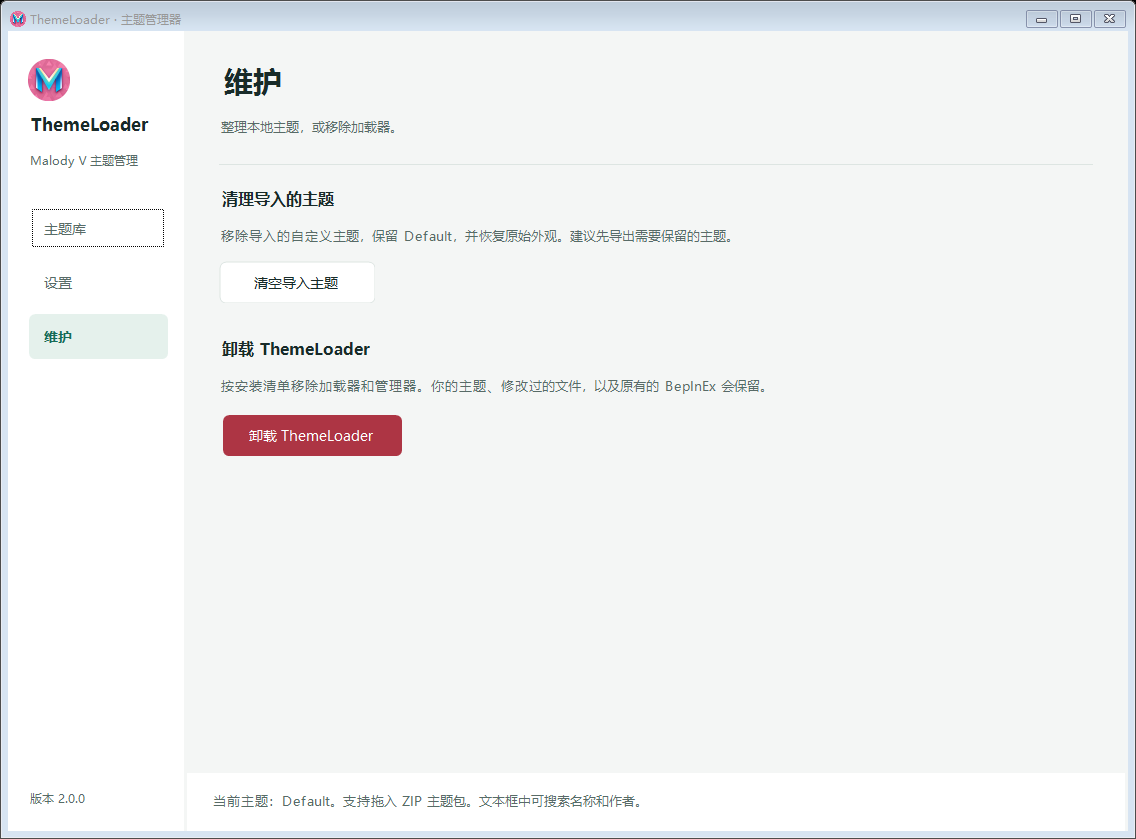
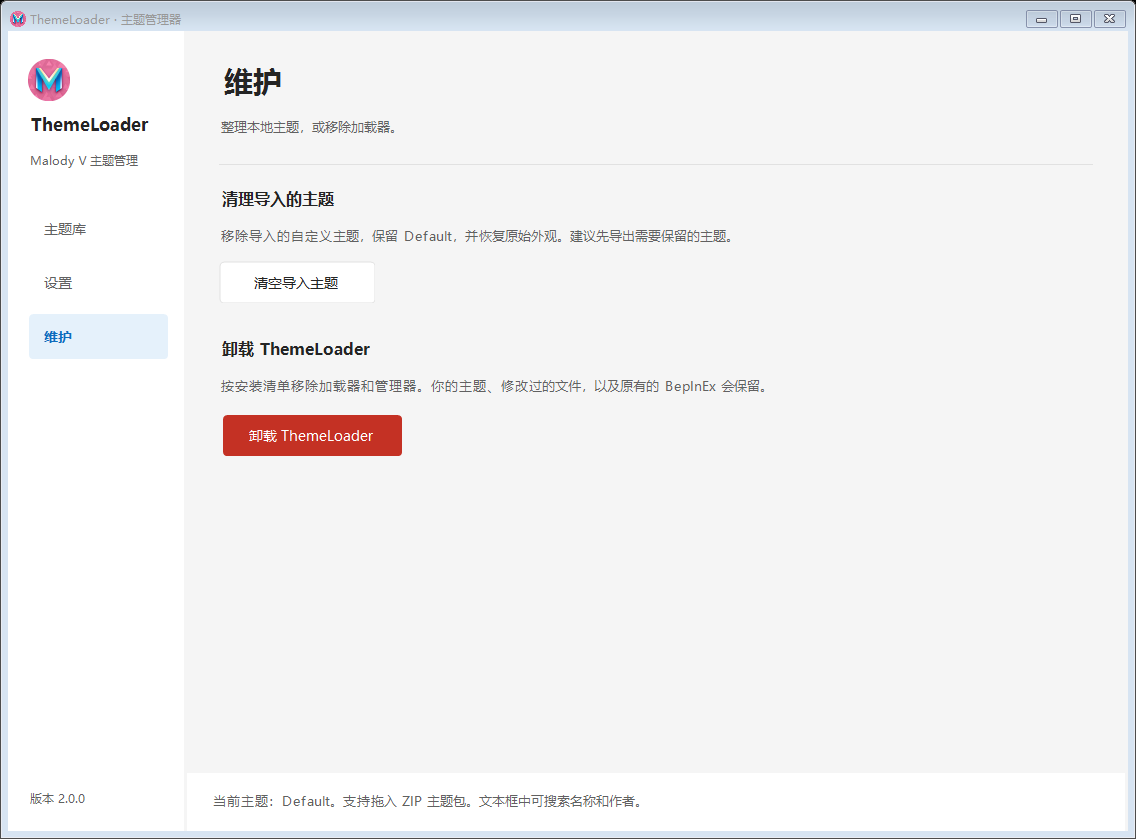
Adopt Fluent 2 visual system for desktop tools

Changed region(s): [[0.1849, 0.4958, 0.3697, 0.5578], [0.0308, 0.3719, 0.0616, 0.4029]]

diff --git a/src/MalodyVThemeLoader.Windows/AppVisuals.cs b/src/MalodyVThemeLoader.Windows/AppVisuals.cs
@@ -18,20 +18,26 @@ public static class AppVisuals
     private static readonly Lazy<string> MonoFontFamily = new(() =>
         ResolveFontFamily("Cascadia Mono", "Consolas", "Courier New"));
 
-    public static readonly Color Ink = Color.FromArgb(24, 43, 41);
-    public static readonly Color MutedInk = Color.FromArgb(88, 107, 103);
-    public static readonly Color Canvas = Color.FromArgb(244, 246, 245);
-    public static readonly Color Surface = Color.White;
-    public static readonly Color SurfaceAlt = Color.FromArgb(237, 242, 240);
-    public static readonly Color Line = Color.FromArgb(221, 229, 226);
-    public static readonly Color Accent = Color.FromArgb(23, 107, 88);
-    public static readonly Color AccentHover = Color.FromArgb(17, 84, 68);
-    public static readonly Color AccentSoft = Color.FromArgb(229, 241, 236);
-    public static readonly Color Danger = Color.FromArgb(173, 53, 68);
-    public static readonly Color Sidebar = Color.FromArgb(27, 32, 39);
-    public static readonly Color SidebarMuted = Color.FromArgb(183, 191, 201);
-    public static readonly Color SidebarSoft = Color.FromArgb(42, 49, 59);
-    public static readonly Color Success = Accent;
+    // Fluent 2 light theme roles. These are deliberately neutral and blue;
+    // green/teal is reserved for theme artwork and never acts as product chrome.
+    public static readonly Color Ink = Color.FromArgb(36, 36, 36);
+    public static readonly Color MutedInk = Color.FromArgb(97, 97, 97);
+    public static readonly Color Canvas = Color.FromArgb(245, 245, 245);
+    public static readonly Color Surface = Color.FromArgb(255, 255, 255);
+    public static readonly Color SurfaceAlt = Color.FromArgb(250, 250, 250);
+    public static readonly Color SurfaceRaised = Color.FromArgb(255, 255, 255);
+    public static readonly Color Line = Color.FromArgb(225, 225, 225);
+    public static readonly Color Accent = Color.FromArgb(15, 108, 189);
+    public static readonly Color AccentHover = Color.FromArgb(17, 94, 163);
+    public static readonly Color AccentPressed = Color.FromArgb(0, 84, 147);
+    public static readonly Color AccentSoft = Color.FromArgb(229, 241, 251);
+    public static readonly Color Danger = Color.FromArgb(196, 49, 36);
+    public static readonly Color DangerHover = Color.FromArgb(164, 38, 28);
+    public static readonly Color DangerPressed = Color.FromArgb(139, 31, 23);
+    public static readonly Color Sidebar = Color.FromArgb(248, 248, 248);
+    public static readonly Color SidebarMuted = Color.FromArgb(97, 97, 97);
+    public static readonly Color SidebarSoft = Color.FromArgb(243, 243, 243);
+    public static readonly Color Success = Color.FromArgb(16, 124, 16);
 
     public static Font UiFont(float size = 10F, FontStyle style = FontStyle.Regular)
     {
@@ -96,7 +102,7 @@ public static class AppVisuals
             Primary = primary,
             Danger = danger,
             AutoSize = false,
-            Height = 42,
+            Height = 36,
             Text = text,
             Font = UiFont(10F),
             FlatStyle = FlatStyle.Flat,
@@ -116,13 +122,13 @@ public static class AppVisuals
         button.FlatAppearance.MouseOverBackColor = primary
             ? AccentHover
             : danger
-                ? Color.FromArgb(148, 41, 48)
+                ? DangerHover
                 : SurfaceAlt;
         button.FlatAppearance.MouseDownBackColor = primary
-            ? Color.FromArgb(13, 72, 87)
+            ? AccentPressed
             : danger
-                ? Color.FromArgb(132, 36, 43)
-                : Color.FromArgb(232, 237, 242);
+                ? DangerPressed
+                : Color.FromArgb(237, 237, 237);
         return button;
     }
 

diff --git a/src/MalodyVThemeLoader.Windows/WindowsBackdrop.cs b/src/MalodyVThemeLoader.Windows/WindowsBackdrop.cs
@@ -1,0 +1,42 @@
+using System.Runtime.InteropServices;
+
+namespace MalodyVThemeLoader.Windows;
+
+/// <summary>
+/// Uses the Windows 11 Mica system backdrop when available. Older Windows
+/// versions keep the same Fluent neutral surface through the normal fallback.
+/// This avoids simulating glass with gradients or blur inside the application.
+/// </summary>
+public static class WindowsBackdrop
+{
+    private const int DwmwaUseImmersiveDarkMode = 20;
+    private const int DwmwaSystemBackdropType = 38;
+    private const int DwmsbtMica = 2;
+
+    public static bool TryApplyMica(Form form)
+    {
+        if (!OperatingSystem.IsWindowsVersionAtLeast(10, 0, 22000))
+            return false;
+
+        try
+        {
+            form.BackColor = AppVisuals.Canvas;
+            var dark = 0;
+            var backdrop = DwmsbtMica;
+            _ = DwmSetWindowAttribute(form.Handle, DwmwaUseImmersiveDarkMode,
+                ref dark, sizeof(int));
+            return DwmSetWindowAttribute(form.Handle, DwmwaSystemBackdropType,
+                ref backdrop, sizeof(int)) == 0;
+        }
+        catch (DllNotFoundException) { return false; }
+        catch (EntryPointNotFoundException) { return false; }
+        catch (InvalidOperationException) { return false; }
+    }
+
+    [DllImport("dwmapi.dll")]
+    private static extern int DwmSetWindowAttribute(
+        IntPtr hwnd,
+        int attribute,
+        ref int value,
+        int valueSize);
+}

diff --git a/src/MalodyVThemeLoader.Windows/ActionButton.cs b/src/MalodyVThemeLoader.Windows/ActionButton.cs
@@ -26,10 +26,21 @@ internal sealed class ActionButton : Button
         e.Graphics.SmoothingMode = SmoothingMode.AntiAlias;
         var scale = DeviceDpi / 96f;
         var rect = new RectangleF(0.5f, 0.5f, Width-1, Height-1);
-        using var path = Rounded(rect, 6*scale);
-        var fill = !Enabled ? AppVisuals.SurfaceAlt : pressed ? AppVisuals.AccentSoft
-            : hovered ? (Primary ? AppVisuals.AccentHover : Danger ? Color.FromArgb(143,38,51) : AppVisuals.SurfaceAlt) : BackColor;
-        var ink = !Enabled ? AppVisuals.MutedInk : pressed ? AppVisuals.Ink : ForeColor;
+        using var path = Rounded(rect, 4*scale);
+        var fill = !Enabled
+            ? AppVisuals.SurfaceAlt
+            : pressed
+                ? (Primary ? AppVisuals.AccentPressed
+                    : Danger ? AppVisuals.DangerPressed
+                    : Color.FromArgb(237, 237, 237))
+                : hovered
+                    ? (Primary ? AppVisuals.AccentHover
+                        : Danger ? AppVisuals.DangerHover
+                        : AppVisuals.SurfaceAlt)
+                    : BackColor;
+        var ink = !Enabled
+            ? AppVisuals.MutedInk
+            : Primary || Danger ? Color.White : ForeColor;
         using var brush = new SolidBrush(fill);
         e.Graphics.FillPath(brush,path);
         if (!Primary && !Danger && FlatAppearance.BorderSize != 0)

diff --git a/src/MalodyVBepInExInstaller/InstallerForm.cs b/src/MalodyVBepInExInstaller/InstallerForm.cs
@@ -25,6 +25,7 @@ internal sealed class InstallerForm : Form
         BackColor = AppVisuals.Canvas;
         Font = AppVisuals.UiFont();
         Icon = AppVisuals.CreateAppIcon();
+        Shown += (_, _) => WindowsBackdrop.TryApplyMica(this);
         var shell = new TableLayoutPanel { Dock = DockStyle.Fill, ColumnCount = 1, RowCount = 2, Padding = new Padding(32) };
         shell.ColumnStyles.Add(new ColumnStyle(SizeType.Percent,100));
         shell.RowStyles.Add(new RowStyle(SizeType.Percent,100));
@@ -97,7 +98,7 @@ internal sealed class InstallerForm : Form
     {
         var valid = GameLocator.IsGameDirectory(pathBox.Text, out var error);
         pathState.Text = valid ? "已找到有效的 Malody V IL2CPP 目录。" : error;
-        pathState.ForeColor = valid ? Color.DarkGreen : Color.DarkRed;
+        pathState.ForeColor = valid ? AppVisuals.Success : AppVisuals.Danger;
         installButton.Enabled = valid && !busy;
         uninstallButton.Enabled = !busy && File.Exists(Path.Combine(pathBox.Text, ProductInfo.ManifestRelativePath));
     }

diff --git a/src/MalodyVThemeLoader.Installer/InstallerForm.cs b/src/MalodyVThemeLoader.Installer/InstallerForm.cs
@@ -29,6 +29,7 @@ internal sealed class InstallerForm : Form
         BackColor = AppVisuals.Canvas;
         Font = AppVisuals.UiFont();
         Icon = AppVisuals.CreateAppIcon();
+        Shown += (_, _) => WindowsBackdrop.TryApplyMica(this);
         var layout = new TableLayoutPanel
         {
             Dock = DockStyle.Fill, ColumnCount = 1, RowCount = 3,

diff --git a/src/MalodyVThemeLoader.ThemeManager/ThemeManagerLayout.cs b/src/MalodyVThemeLoader.ThemeManager/ThemeManagerLayout.cs
@@ -27,6 +27,7 @@ internal sealed partial class ThemeManagerForm
         BackColor = AppVisuals.Canvas;
         Font = AppVisuals.UiFont();
         Icon = AppVisuals.CreateAppIcon();
+        Shown += (_, _) => WindowsBackdrop.TryApplyMica(this);
         AllowDrop = true;
 
         exportButton = AppVisuals.CreateButton("导出 ZIP");

diff --git a/DESIGN.md b/DESIGN.md
@@ -1,18 +1,21 @@
 ---
 name: Malody V ThemeLoader
-description: A quiet native Windows workspace for installing and managing Malody V themes.
+description: A focused Fluent 2 native Windows workspace for installing and managing Malody V themes.
 colors:
-  accent: "#176B58"
-  accent-hover: "#115444"
-  accent-soft: "#E5F1EC"
-  danger: "#AD3544"
-  danger-hover: "#8F2633"
-  canvas: "#F4F6F5"
+  accent: "#0F6CBD"
+  accent-hover: "#115EA3"
+  accent-pressed: "#005493"
+  accent-soft: "#E5F1FB"
+  danger: "#C43124"
+  danger-hover: "#A4261C"
+  danger-pressed: "#8B1F17"
+  success: "#107C10"
+  canvas: "#F5F5F5"
   surface: "#FFFFFF"
-  surface-alt: "#EDF2F0"
-  ink: "#182B29"
-  muted-ink: "#586B67"
-  line: "#DDE5E2"
+  surface-alt: "#FAFAFA"
+  ink: "#242424"
+  muted-ink: "#616161"
+  line: "#E1E1E1"
 typography:
   page-title:
     fontFamily: "Microsoft YaHei UI, Segoe UI Variable Text, Segoe UI, sans-serif"
@@ -39,7 +42,7 @@ typography:
     fontSize: "9pt"
     fontWeight: 400
 rounded:
-  action: "6px"
+  action: "4px"
 spacing:
   compact: "8px"
   control: "12px"
@@ -54,7 +57,7 @@ components:
     textColor: "{colors.surface}"
     typography: "{typography.body}"
     rounded: "{rounded.action}"
-    height: "42px"
+    height: "36px"
   button-primary-hover:
     backgroundColor: "{colors.accent-hover}"
   button-secondary:
@@ -62,7 +65,7 @@ components:
     textColor: "{colors.ink}"
     typography: "{typography.body}"
     rounded: "{rounded.action}"
-    height: "42px"
+    height: "36px"
   button-secondary-hover:
     backgroundColor: "{colors.surface-alt}"
   button-danger:
@@ -70,7 +73,7 @@ components:
     textColor: "{colors.surface}"
     typography: "{typography.body}"
     rounded: "{rounded.action}"
-    height: "42px"
+    height: "36px"
   button-danger-hover:
     backgroundColor: "{colors.danger-hover}"
   button-pressed:
@@ -107,28 +110,28 @@ components:
 
 ## Overview
 
-**Creative North Star: "Quiet Windows utility"**
+**Creative North Star: "Fluent 2 Windows utility"**
 
-The interface is a clear, concise working environment for Chinese-speaking Malody V players and theme authors. Neutral surfaces, restrained green actions and familiar Windows controls keep attention on the next task. Brand appears through the existing logo and real theme artwork.
+The interface is a clear, concise working environment for Chinese-speaking Malody V players and theme authors. Neutral surfaces, restrained brand blue actions and familiar Windows controls keep attention on the next task. Brand appears through the existing logo and real theme artwork.
 
 The native Windows typography, frame, dialogs, scrollbars and focus cues are intentional. This system records the implemented WinForms application; the surface brief owns its workflow composition and the disclosed concept-workflow deviation.
 
 **Key Characteristics:**
 
-- Quiet light surfaces with a restrained green accent.
+- Quiet light surfaces with a restrained brand blue accent.
 - Native Chinese typography and keyboard affordances.
 - Persistent task labels and truthful operation states.
 - Real source artwork with proportion-preserving previews.
 
 ## Colors
 
-Deep green provides action and selection within a pale neutral workspace. The frontmatter is the token record extracted from `AppVisuals` and `ActionButton`.
+Fluent brand blue provides action and selection within a pale neutral workspace. The frontmatter is the token record extracted from `AppVisuals` and `ActionButton`.
 
 ### Primary
 
-- **Action Green** (`accent`): primary actions, active-theme text and successful ThemeLoader operations.
-- **Deep Action Green** (`accent-hover`): primary-button hover.
-- **Soft Green** (`accent-soft`): selected navigation and list rows; pressed buttons.
+- **Brand Blue** (`accent`): primary actions, active-theme text and successful ThemeLoader operations.
+- **Deep Brand Blue** (`accent-hover`): primary-button hover.
+- **Soft Brand Blue** (`accent-soft`): selected navigation and list rows; pressed buttons.
 - **Removal Red** (`danger`): destructive ThemeLoader removal and invalid-theme feedback.
 - **Deep Removal Red** (`danger-hover`): destructive-button hover.
 
@@ -165,7 +168,7 @@ The existing evidence covers normal and minimum dimensions plus synthetic 150% l
 
 ## Elevation & Depth
 
-The implemented application has no custom shadows or gradients. White working surfaces, pale inset areas, whitespace and fine rules establish grouping. Native Windows frames and dialogs retain operating-system depth. Hover and pressed feedback changes color immediately; no custom animated transition is implemented.
+The implemented application has no custom shadows or gradients. Windows 11 uses the system Mica backdrop; older systems use the same neutral token fallback. White working surfaces, pale inset areas, whitespace and fine rules establish grouping. Native Windows frames and dialogs retain operating-system depth. Hover and pressed feedback changes color immediately; no custom animated transition is implemented.
 
 ## Shapes
 
@@ -185,11 +188,11 @@ Path and search fields remain native text boxes. A persistent “搜索主题”
 
 ### Navigation
 
-A white navigation column holds the existing logo, product name, three task destinations and version. Rows are left-aligned, with soft-green fill, green text and bold weight when selected. Theme selection, settings and maintenance remain distinct destinations.
+A white navigation column holds the existing logo, product name, three task destinations and version. Rows are left-aligned, with soft brand-blue fill, brand-blue text and bold weight when selected. Theme selection, settings and maintenance remain distinct destinations.
 
 ### Theme library and preview
 
-The native ListBox uses fixed-height owner drawing (64 px), single selection and vertical scrolling, with IntegralHeight disabled so it fills its layout cell. Each two-line row shows the bold theme name, then active-state text or author/version. Long text uses ellipsis. Selection uses soft green; keyboard focus remains visible. A double-click applies the selected theme.
+The native ListBox uses fixed-height owner drawing (64 px), single selection and vertical scrolling, with IntegralHeight disabled so it fills its layout cell. Each two-line row shows the bold theme name, then active-state text or author/version. Long text uses ellipsis. Selection uses soft brand blue; keyboard focus remains visible. A double-click applies the selected theme.
 
 The preview fits real artwork within its available bounds, preserves aspect ratio and uses the inset neutral as its letterbox ground. Missing preview artwork, invalid themes and a search with no results have different messages. With no selection, metadata is suppressed, recovery guidance is visible and theme actions, including “查看 theme.json”, are disabled. The manifest action has a local minimum width (164 px) to retain its full mixed-language label. Raw manifests open in a native read-only, scrollable dialog.
 
@@ -219,3 +222,7 @@ Use the existing embedded logo and icon. Default theme previews and exports come
 - Don't use generated or substituted artwork for the Default theme.
 - Don't style unavailable actions as enabled or expose empty metadata as a selected theme.
 - Don't treat synthetic 150% captures as physical DPI verification.
+
+## External visual reference
+
+The system follows [Microsoft Fluent 2](https://fluent2.microsoft.design/) color roles and [Windows Mica materials](https://learn.microsoft.com/windows/apps/design/signature-experiences/materials). The mapping and implementation boundary are recorded in `docs/FLUENT_2.md`.

diff --git a/.impeccable/review/fluent-finish-verdict.md b/.impeccable/review/fluent-finish-verdict.md
@@ -1,0 +1,32 @@
+disposition: ship
+
+Evidence note: all 14 named PNG captures exist with the expected normal, minimum and synthetic 150% dimensions. These are native `Form.DrawToBitmap` captures; DWM Mica is not representable in that path, and physical multi-monitor DPI behavior remains unverified. No HTML/CSS detector applies and no new comp was requested.
+
+## persistence
+
+Pass. DESIGN.md, docs/FLUENT_2.md, the surface brief and the craft floor agree on the Fluent 2 neutral/brand-blue direction, native WinForms behavior, density and state rules. The brief records the code-led workflow deviation honestly. The capture set covers installer desktop/minimum/reuse/invalid/scale, manager desktop/minimum/settings/maintenance/empty-search/scale and standalone BepInEx desktop/minimum/scale.
+
+## fidelity
+
+| Element | State | Evidence |
+| --- | --- | --- |
+| Fluent 2 ground | match | Neutral `#F5F5F5` canvas, white working surfaces, inset neutral preview/log grounds and fine rules are consistent across all three utilities. |
+| Brand treatment | match | Brand blue actions and selected states replace the former teal look without becoming decorative; real source artwork remains the focal material. |
+| Typography | match | Chinese Microsoft YaHei UI / Segoe hierarchy is legible, with clear page, section, body and diagnostic levels. No gradient text, display-face substitution or monospace costume appears. |
+| Density and topology | match | Directory-first installer, manager navigation/list/detail split and separate settings/maintenance retain the intended task order at normal and minimum sizes. |
+| Focus and native affordances | match | Dotted focus rectangles, native text fields, checkboxes, scrollbars and file-dialog entry points remain visible and coherent in the captures. |
+| Empty/error/disabled states | match | Invalid directory text is Chinese and recoverable; empty search communicates no results; disabled theme actions are visually and behaviorally distinct; reuse messaging remains explicit. |
+| Busy state | acceptable adaptation | The standalone installer busy message and wait cursor are established in source before the operation runs. A live busy capture is absent, so timing and cursor presentation are source-verified only. |
+| Mica material | acceptable adaptation | DESIGN.md and docs/FLUENT_2.md specify Windows 11 DWM Mica with neutral fallback; DrawToBitmap cannot prove the compositor material. This is an evidence limit, not a visual contradiction in the supplied captures. |
+
+## ceiling
+
+Reached for the captured native surface. The redesign has a restrained Fluent 2 neutral palette, compact 4px action geometry, clear selection/focus, fine rules, no gradients or fake glass, and no decorative card stack. Mica and physical DPI need runtime verification outside this capture method.
+
+## material_fixes
+
+None required for this bounded capture review. Before release validation, run one real-window check on Windows 11 to confirm DWM Mica fallback and one physical 150% DPI check to confirm text, button and scroll behavior; these are verification tasks rather than screenshot-driven design defects.
+
+## keep
+
+Keep the neutral working surfaces, restrained brand blue, native focus and controls, real artwork preview, explicit reuse diagnosis, separate maintenance route, truthful empty/error/disabled states and concise Chinese copy. Do not reintroduce teal, gradients, fake blur or decorative cards.

diff --git a/docs/FLUENT_2.md b/docs/FLUENT_2.md
@@ -1,0 +1,17 @@
+# Fluent 2 视觉基准
+
+本次界面改造采用 Microsoft Fluent 2 的公开规范作为外部视觉基准：
+
+- 总览：https://fluent2.microsoft.design/
+- 颜色角色：https://fluent2.microsoft.design/styles/color
+- Windows 材质：https://learn.microsoft.com/windows/apps/design/signature-experiences/materials
+
+采用的规则：
+
+- 用 `colorNeutralBackground*` 的中性层级搭建工作区，让内容和真实主题 artwork 成为视觉重点。
+- 用 `colorBrandBackground` 的蓝色作为操作色，状态文字同时表达成功、错误和禁用，不依赖颜色单独传达含义。
+- 控件使用紧凑密度、4px 小圆角、清晰的 focus 和 hover 状态；不使用渐变、发光、胶囊按钮或伪造的玻璃模糊。
+- Windows 11 使用系统 Mica backdrop；不支持的系统回退到相同的中性背景色。
+- 层级通过材质、分隔线和留白表达，不用堆叠大量带阴影的卡片。
+
+Fluent 2 是设计参考，不引入 Fluent UI Web 或运行时网络依赖。实现仍是离线、自包含的原生 WinForms；`WindowsBackdrop` 只调用 Windows DWM，失败时安全回退。

diff --git a/docs/VERIFICATION.md b/docs/VERIFICATION.md
@@ -1,6 +1,6 @@
 # 2.0.0 验证记录
 
-验证日期：2026-10-21。所有安装操作均针对仓库 `artifacts` 内的可丢弃假游戏目录，未启动游戏。
+验证日期：2026-10-22。所有安装操作均针对仓库 `artifacts` 内的可丢弃假游戏目录，未启动游戏。
 
 ## 构建与打包
 
@@ -29,6 +29,10 @@
 | 独立 BepInEx 安装器的离线 EXE 回归 | 通过 |
 
 对应脚本：`test-installer.ps1`、`test-runtime-reuse.ps1`、`test-theme-manager.ps1` 和 `test-bepinex-installer.ps1`。完整运行输出位于本地 `artifacts`。
+
+## Fluent 2 视觉复核
+
+本轮按 Microsoft Fluent 2 公开规范重新检查了安装器、主题管理器和独立 BepInEx 安装器。官方参考见 `docs/FLUENT_2.md`。共享视觉 token 已切换为 Fluent 中性背景、brand blue、成功/危险状态；Windows 11 使用 DWM Mica，截图和旧系统安全回退为纯色背景。截图确认没有青绿色产品 chrome、渐变、发光或大胶囊按钮。
 
 ## 原生界面审查
 

diff --git a/.impeccable/surface-brief.md b/.impeccable/surface-brief.md
@@ -4,7 +4,7 @@ Mode: Operate. Chinese Windows x64 utility for Malody V players and theme author
 
 THESIS: Make installation and choosing a theme immediate. Keep configuration and removal separate from normal theme selection.
 
-OWN-WORLD: Light neutral working surfaces, dark green text and one restrained green action color; native window frame and dialogs, consistent Chinese typography, source-derived theme imagery, flat sections and fine rules.
+OWN-WORLD: Fluent 2 neutral layers, Windows 11 Mica where available, dark neutral text and one restrained brand-blue action color; native window frame and dialogs, consistent Chinese typography, source-derived theme imagery, flat sections and fine rules.
 
 STORY: The installer recognizes the game, explains whether BepInEx will be reused and installs offline. The manager shows a real theme preview, lets the user apply/import/export ZIPs, and offers settings and maintenance on separate pages. No agreement or device restrictions.
 

diff --git a/README.md b/README.md
@@ -8,6 +8,7 @@
 - 支持图片、字体、Live2D 纹理和循环背景视频；缺少资源时使用游戏原始外观。
 - Default 由源工程原始资源生成，可导出作为主题制作起点。
 - 主题搜索与预览、实时更新、画面控制，以及按清单修复和卸载。
+- 界面基于 Microsoft Fluent 2 和 Windows 11 Mica 规范，旧系统自动回退到中性背景。
 
 安装器与管理器无需协议阅读、设备授权或机器码校验。
 
@@ -26,4 +27,4 @@ python scripts/verify-payload.py
 ```
 
 离线 EXE、Default.zip 和 SHA-256 校验文件输出到 `artifacts/release`。
-详见 [开发指南](docs/DEVELOPMENT_GUIDE.md)、[踩坑记录](docs/PITFALLS.md)和[桌面设计约定](DESIGN.md)。
+详见 [开发指南](docs/DEVELOPMENT_GUIDE.md)、[踩坑记录](docs/PITFALLS.md)、[Fluent 2 视觉基准](docs/FLUENT_2.md)和[桌面设计约定](DESIGN.md)。
